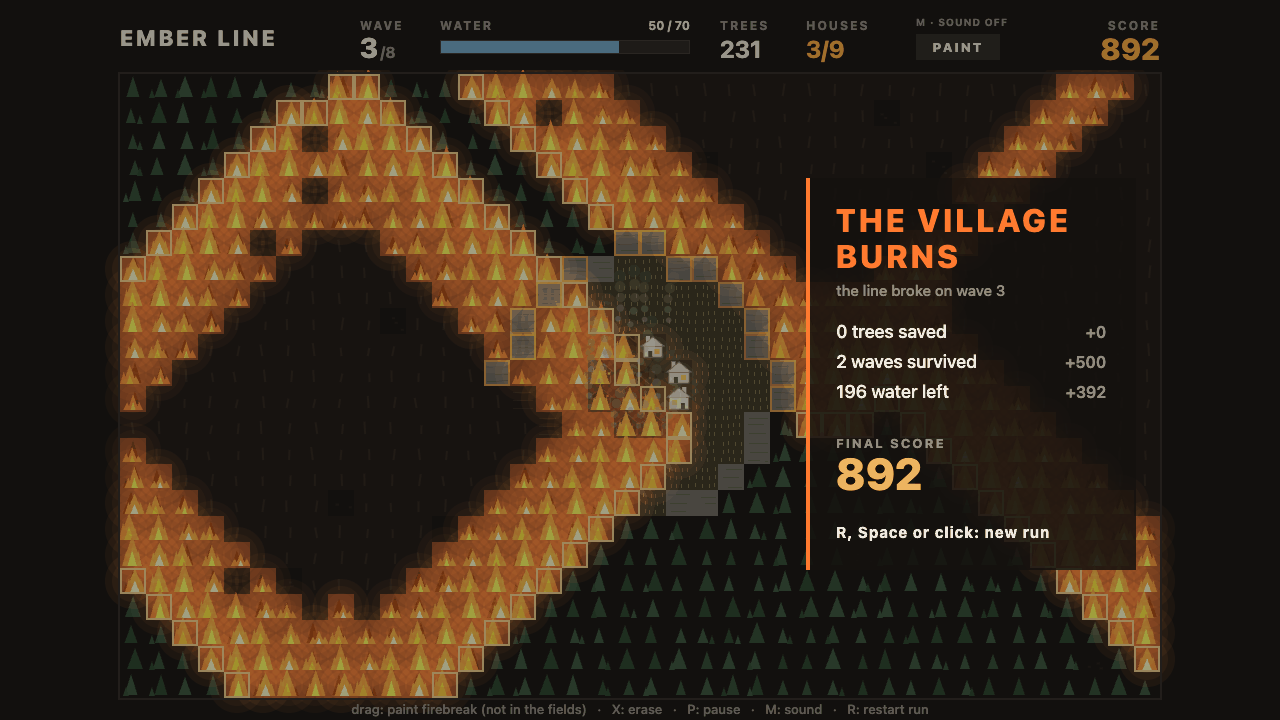
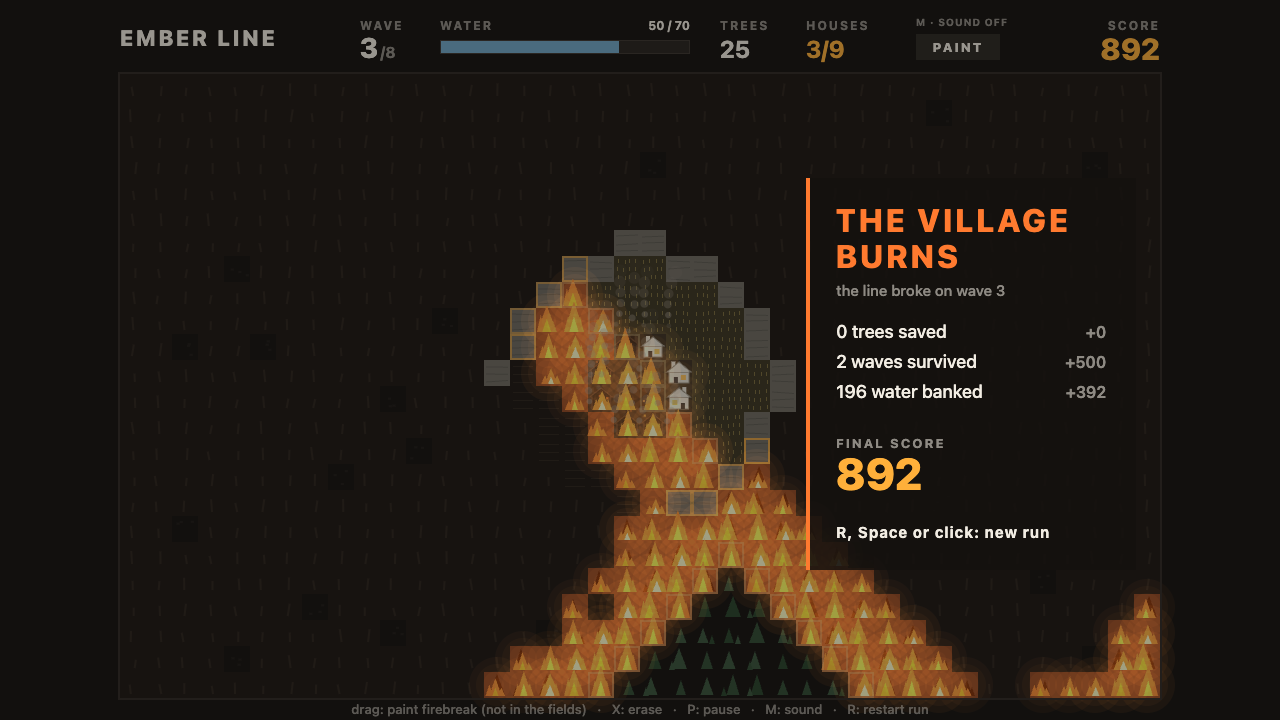
Panel says water banked; README states the score formula; screenshots recaptured

diff --git a/game/src/hud.js b/game/src/hud.js
@@ -1,6 +1,6 @@
 // Text and panels: the HUD band, the title card, the wave-cleared, game-over and win
 // breakdowns, and the pause card. System fonts only.
-import { VIEW, GRID, COLORS, FONT, SCORE } from './config.js';
+import { VIEW, GRID, COLORS, FONT, SCORE, WIN_WAVES } from './config.js';
 import { veil } from './render.js';
 
 const W = VIEW.width;
@@ -171,7 +171,7 @@ export function drawOver(ctx, s) {
   const lines = [
     [`${s.trees.toLocaleString('en-US')} trees saved`, s.trees * SCORE.tree],
     [`${s.waves} ${s.waves === 1 ? 'wave' : 'waves'} survived`, s.waves * SCORE.wave],
-    [`${s.water.toLocaleString('en-US')} water left`, s.water * SCORE.water],
+    [`${s.water.toLocaleString('en-US')} water banked`, s.water * SCORE.water],
   ];
   lines.forEach(([label, pts], k) => {
     const ly = y + 160 + k * 30;
@@ -222,6 +222,8 @@ export function drawWon(ctx, s) {
     text(ctx, label, lx, ly, 18, COLORS.hud, 'left', 500);
     text(ctx, `+${pts.toLocaleString('en-US')}`, x + w - 30, ly, 16, DIM, 'right', 600);
   });
+  // Every wave was completed, so the bank is exactly the leftovers of WIN_WAVES waves.
+  text(ctx, `across ${WIN_WAVES} waves`, lx, y + 188 + 2 * 30 + 18, 12, DIM, 'left', 500);
   text(ctx, 'FINAL SCORE', lx, y + 298, 13, DIM, 'left', 700, 2);
   text(ctx, s.total.toLocaleString('en-US'), lx, y + 346, 50, COLORS.accent, 'left', 800);
   text(ctx, 'R, Space or click: new run', lx, y + 398, 15, COLORS.hud, 'left', 700, 1);

diff --git a/README.md b/README.md
@@ -24,6 +24,12 @@ Then open http://localhost:8080.
 | P | Pause |
 | R | Restart |
 
+## Score
+
+`score = trees saved × 10 + waves survived × 250 + water banked × 2`
+
+Water is banked at the end of every wave that is completed and also when the run ends; the HUD bar shows the current wave's water, and the result panels show the banked total.
+
 ## About
 
 The game is a single static page under `game/` with no build step and no network requests.
